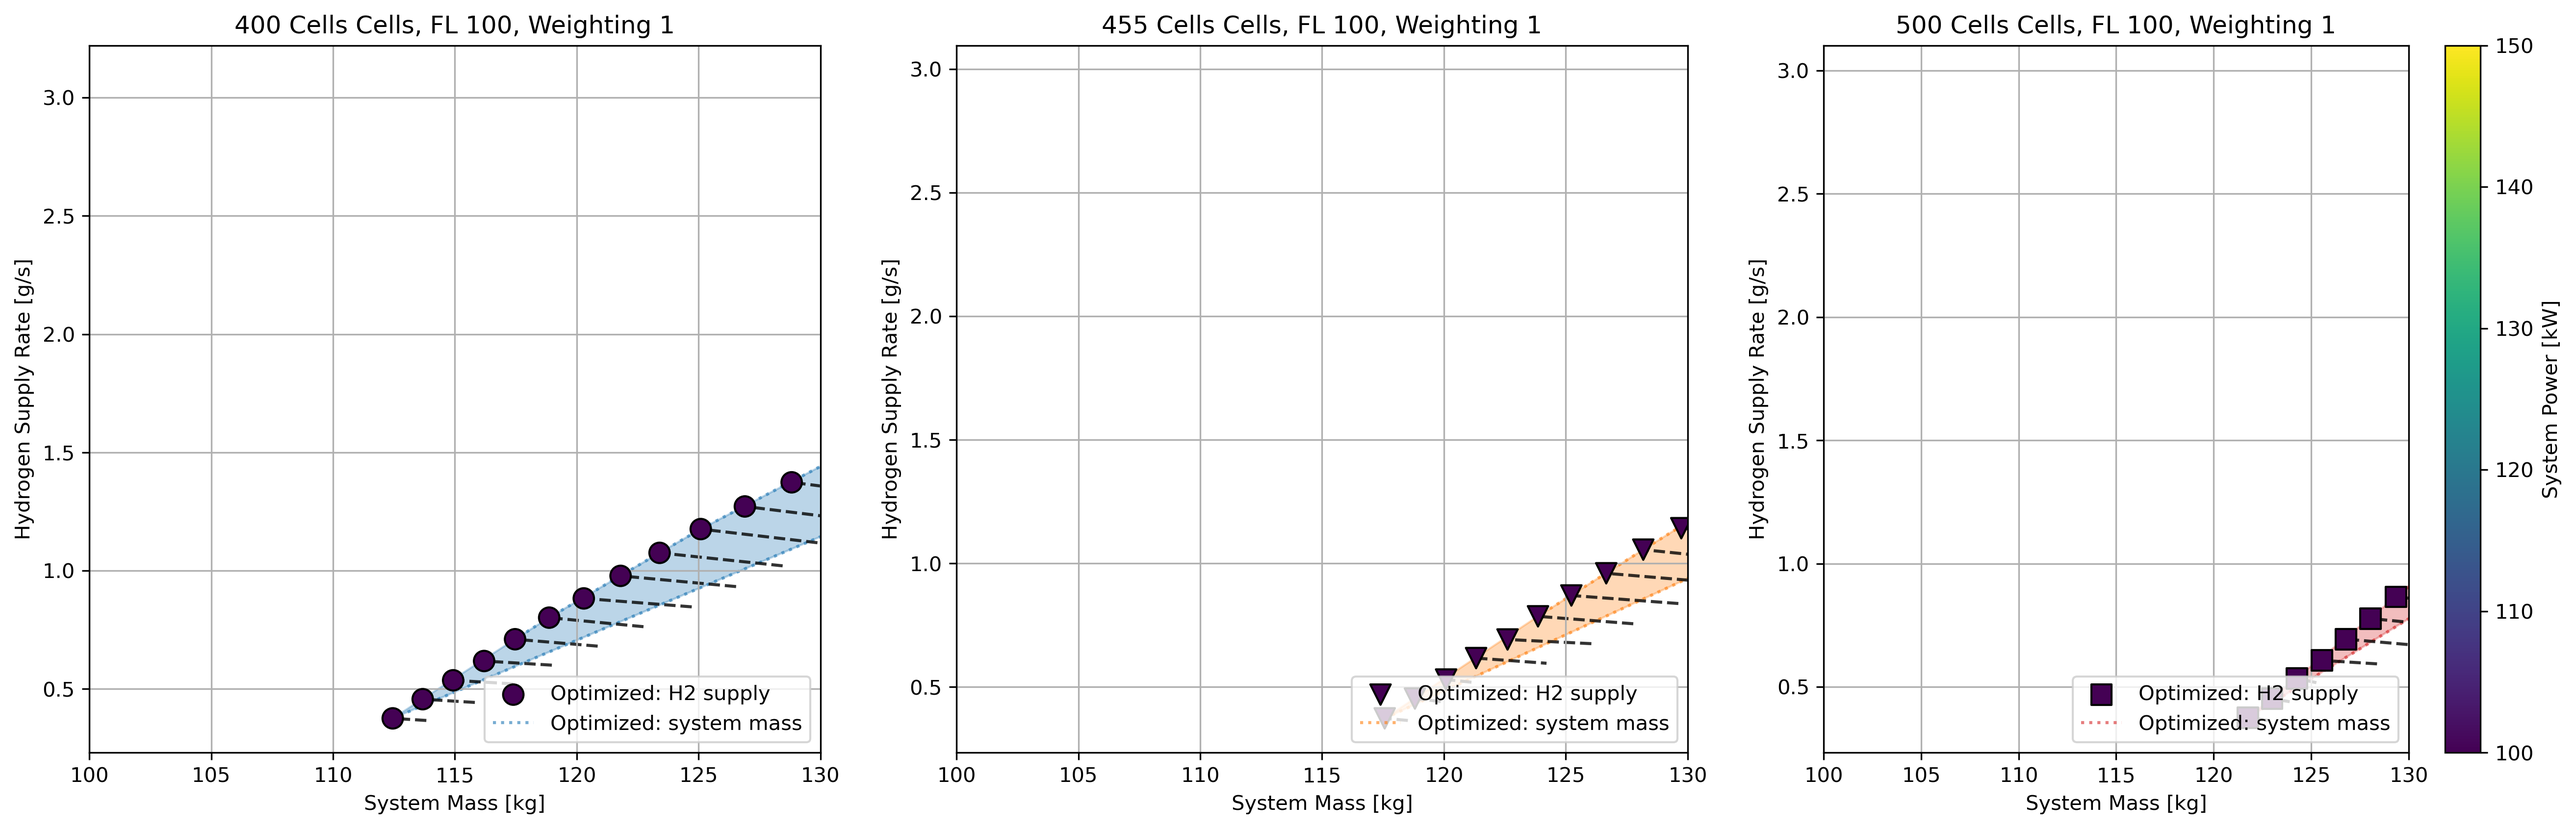
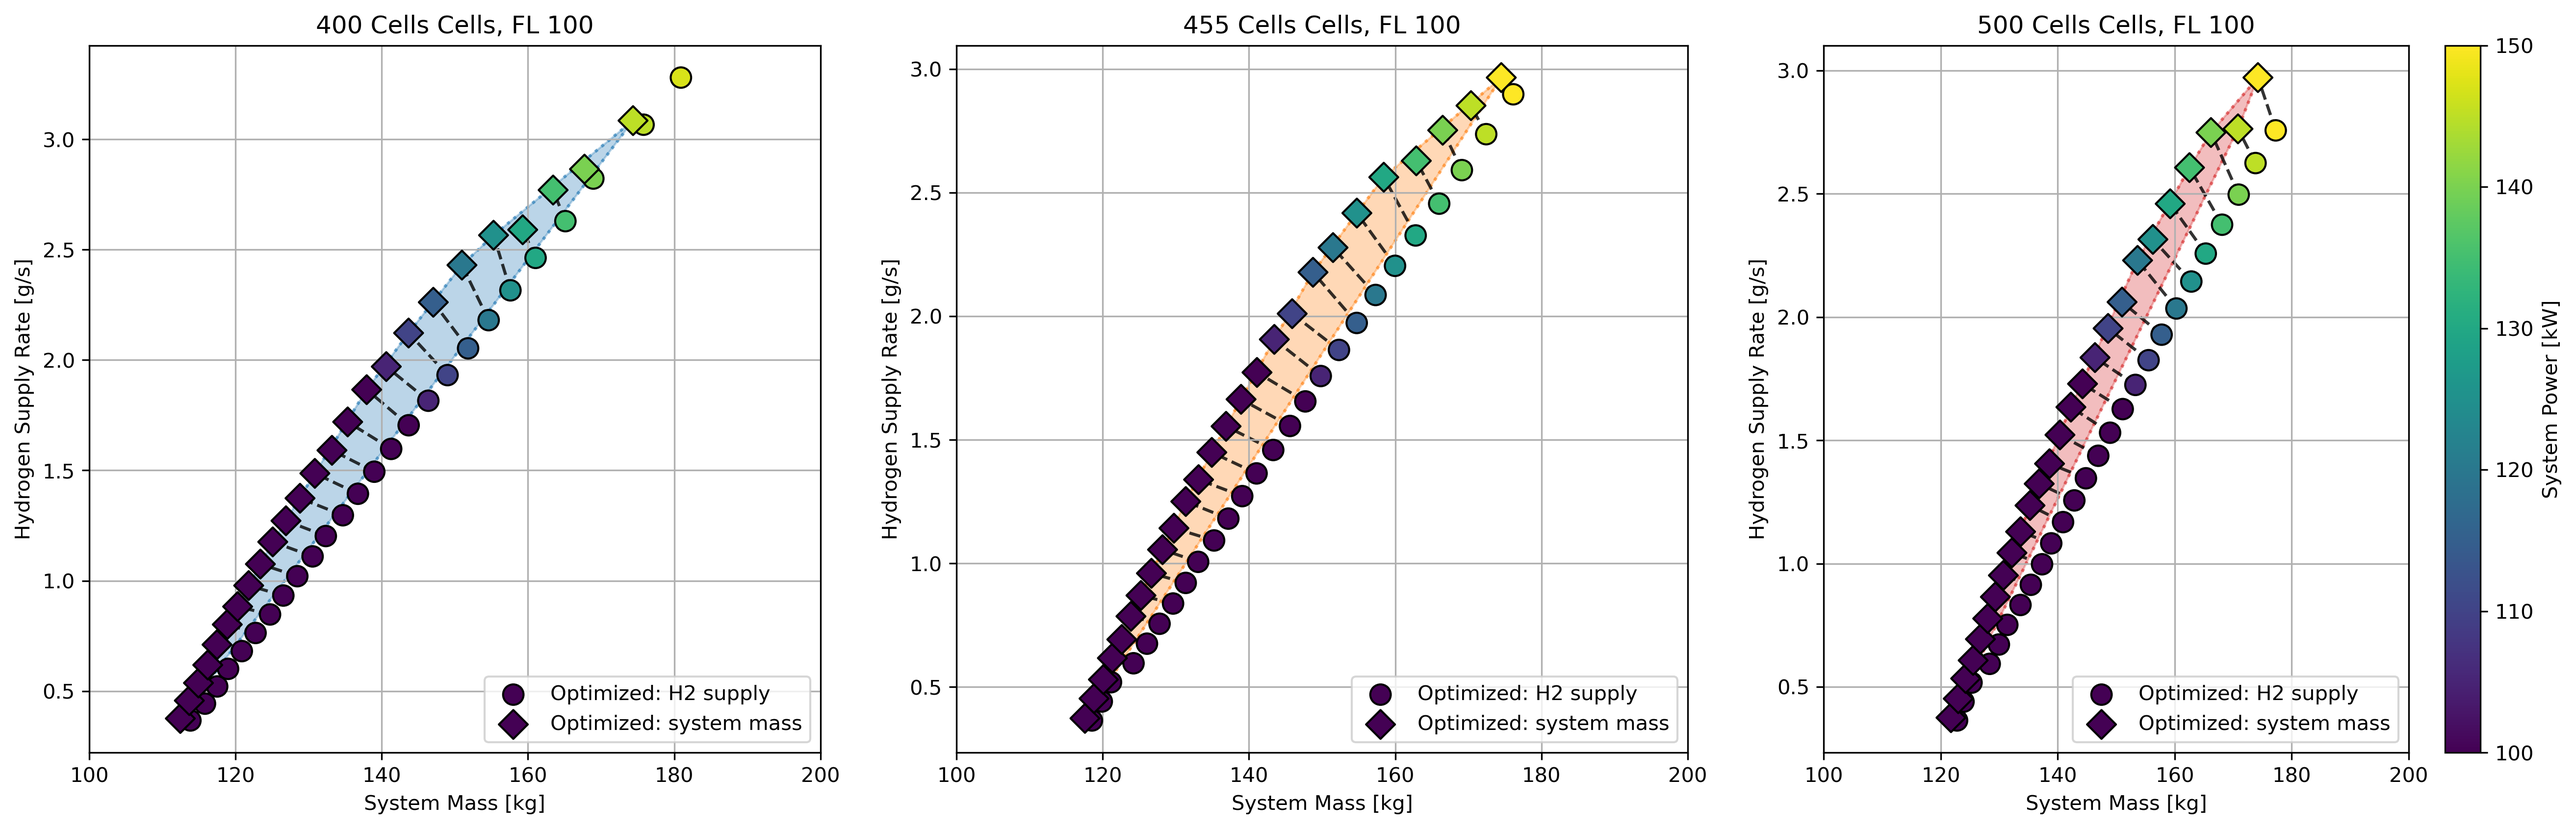
refactor: improve function

diff --git a/05_overall/05_fcs_dimensioning_model/Postprocessing/plot_h2_vs_mass.py b/05_overall/05_fcs_dimensioning_model/Postprocessing/plot_h2_vs_mass.py
@@ -30,7 +30,7 @@ def plot_h2_vs_mass(plot_params, params_general, show_plot, saving=True):
     weightings = params_general['weightings']  # Only plot weightings 0 and 1
     titles = params_general['titles']
 
-    markers = params_general['markers']  # Circle for weighting 0, Diamond for weighting 1
+    markers = ['o', 'D'] # Circle for weighting 0, Diamond for weighting 1
 
     colors = params_general['colors']
 
@@ -45,12 +45,14 @@ def plot_h2_vs_mass(plot_params, params_general, show_plot, saving=True):
 
 
     eol = False  # Assuming eol remains constant in all cases
-    for fl, weighting in itertools.product(fl, weightings):
+    for fl in fl:
+    #for fl in fl:
+    
         fig, axs = plt.subplots(1, num_plots, figsize=(6 * num_plots, 6))  # Dynamically adjust figure size
         if num_plots == 1:
             axs = [axs]  # Convert to list if only one subplot is present
-        for ax, df, title, color, marker in zip(axs, data, titles, colors, markers):   
-            print(f"fl: {fl}, weighting: {weighting}, title {title}, color {color}")
+        for ax, df, title, color in zip(axs, data, titles, colors):   
+            print(f"fl: {fl},  title {title}, color {color}")
 
             df_filtered = df[(df['Flight Level (100x ft)'] == fl) & (df['eol (t/f)'] == eol)]
             
@@ -65,21 +67,22 @@ def plot_h2_vs_mass(plot_params, params_general, show_plot, saving=True):
             all_points_y = []
             all_power = []  # Collect 'System Power (kW)' for coloring
 
-            df_weighted = df_filtered[df_filtered["weighting ([0,1])"] == weighting]
-            
-            if df_weighted.empty:
-                print(f"No data available for weighting {weighting} in {title}.")
-                continue
+        
+            for weighting, marker in zip(weightings, markers):
+                df_weighted = df_filtered[df_filtered["weighting ([0,1])"] == weighting]
+                
+                if df_weighted.empty:
+                    print(f"No data available for weighting {weighting} in {title}.")
+                    continue
 
-            # Scatter plot with color based on 'System Power (kW)'
-            scatter = ax.scatter(df_weighted['System Mass (kg)'], 
-                                df_weighted['Hydrogen Supply Rate (g/s)'], 
-                                s=100, edgecolor='k', 
-                                c=df_weighted['System Power (kW)'],  # Color based on power
-                                cmap='viridis', norm=norm, 
-                                marker=marker, label=f'Weighting {weighting}',
-                                zorder=2)
-
+                # Scatter plot with color based on 'System Power (kW)'
+                scatter = ax.scatter(df_weighted['System Mass (kg)'], 
+                                    df_weighted['Hydrogen Supply Rate (g/s)'], 
+                                    s=100, edgecolor='k', 
+                                    c=df_weighted['System Power (kW)'],  # Color based on power
+                                    cmap='viridis', norm=norm, 
+                                    marker=marker, label=f'Weighting {weighting}',
+                                    zorder=2)
             # Collect points for convex hull
             all_points_x.extend(df_weighted['System Mass (kg)'].values)
             all_points_y.extend(df_weighted['Hydrogen Supply Rate (g/s)'].values)
@@ -96,7 +99,7 @@ def plot_h2_vs_mass(plot_params, params_general, show_plot, saving=True):
             connect_power_levels(ax, df_filtered)
 
             # Set title, labels, and legend
-            plot_params.update({'title': f'{title} Cells, FL {fl}, Weighting {weighting}'})
+            plot_params.update({'title': f'{title} Cells, FL {fl}'})
             configure_axes(ax, **plot_params)
 
             ax.legend([f"Optimized: {plot_params['label'][0]}", f"Optimized: {plot_params['label'][1]}"], loc='lower right')

diff --git a/05_overall/05_fcs_dimensioning_model/Postprocessing/get_plots.py b/05_overall/05_fcs_dimensioning_model/Postprocessing/get_plots.py
@@ -131,7 +131,7 @@ def analyze_data(_file_path1, saving=True):
     plot_params_h2_vs_mass = {
     'title': '', 
     'x_label': 'System Mass [kg]', 
-    'x_lim': [100,130], 
+    'x_lim': [100,200], 
     'y_label': 'Hydrogen Supply Rate [g/s]',
     'y_lim': None,  
     'label' : ["H2 supply", "system mass"], 
